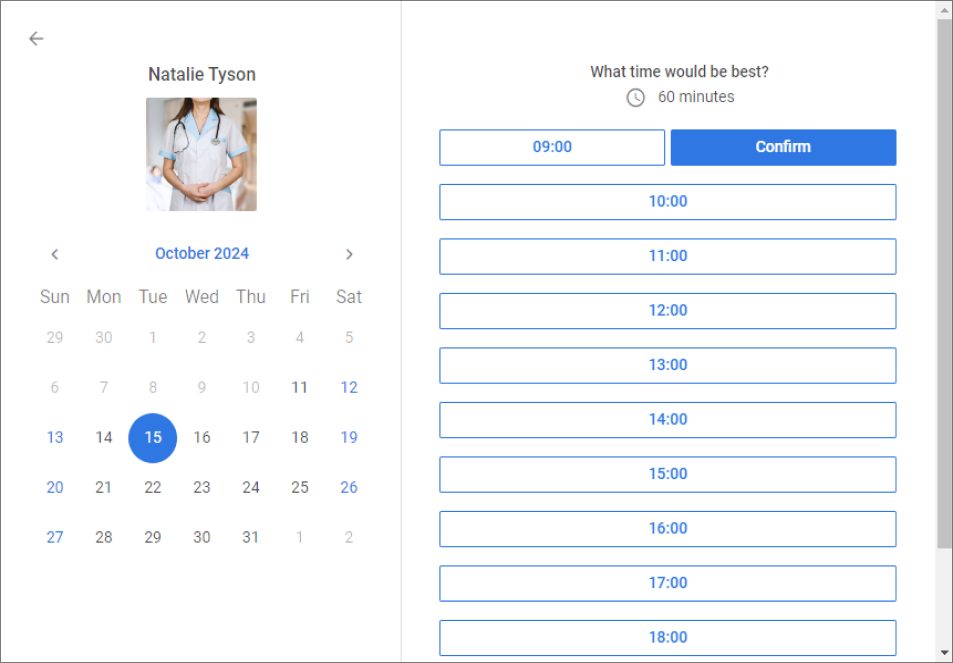
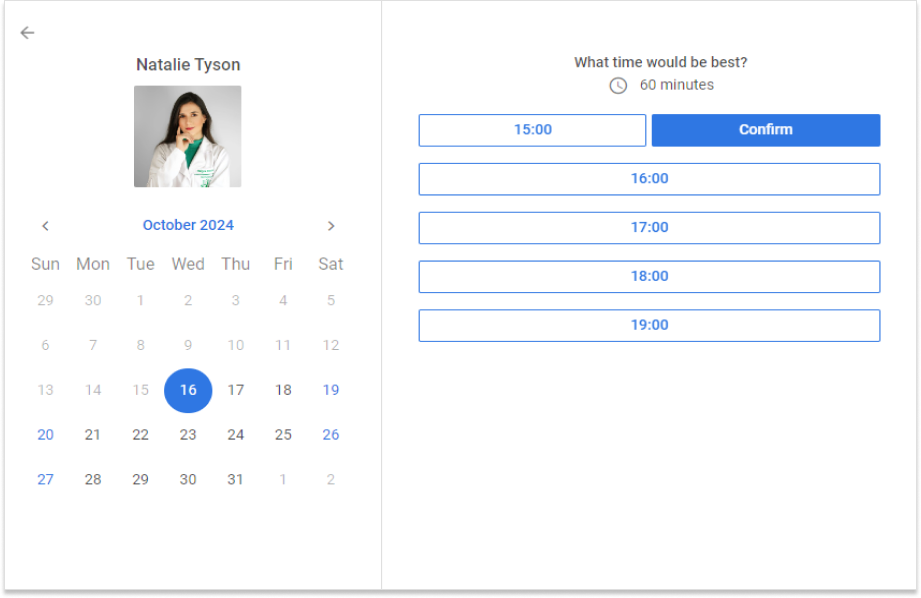
[update] loading updated, images changed

diff --git a/docs/guides/loading-data.md b/docs/guides/loading-data.md
@@ -173,6 +173,12 @@ fetch(server + "/data").then((res) => res.json()).then((data) => {
 
 ## Example
 
-The snippet below demonstrates how to load a large dataset:
+The snippet below shows to save slots reservations to the server:
 
-<iframe src="https://snippet.dhtmlx.com/7nb30n46?mode=result" frameborder="0" class="snippet_iframe" width="100%" height="600"></iframe>
+<iframe src="https://snippet.dhtmlx.com/dpbmyr8j?mode=result" frameborder="0" class="snippet_iframe" width="100%" height="600"></iframe>
+
+
+**Related articles**: 
+- [confirm-slot](/api/events/booking-confirmslot-event) event
+- [setConfig()](/api/methods/booking-setconfig-method) method
+- [setConfirmHandler()](/api/methods/booking-setconfirmhandler-method) method

diff --git a/docs/index.md b/docs/index.md
@@ -72,6 +72,5 @@ You can also make an appointment via the single card view:
 
 ## What's next
 
-To get the eye-catching Booking widget as the one in the snippet below, follow the next sections of this documentation.
+Now you can [start with creating a simple Booking widget on your page](/how-to-start).
 
-<iframe src="https://snippet.dhtmlx.com/d7w3jtqz?mode=result" frameborder="0" class="snippet_iframe" width="100%" height="600"></iframe> 
